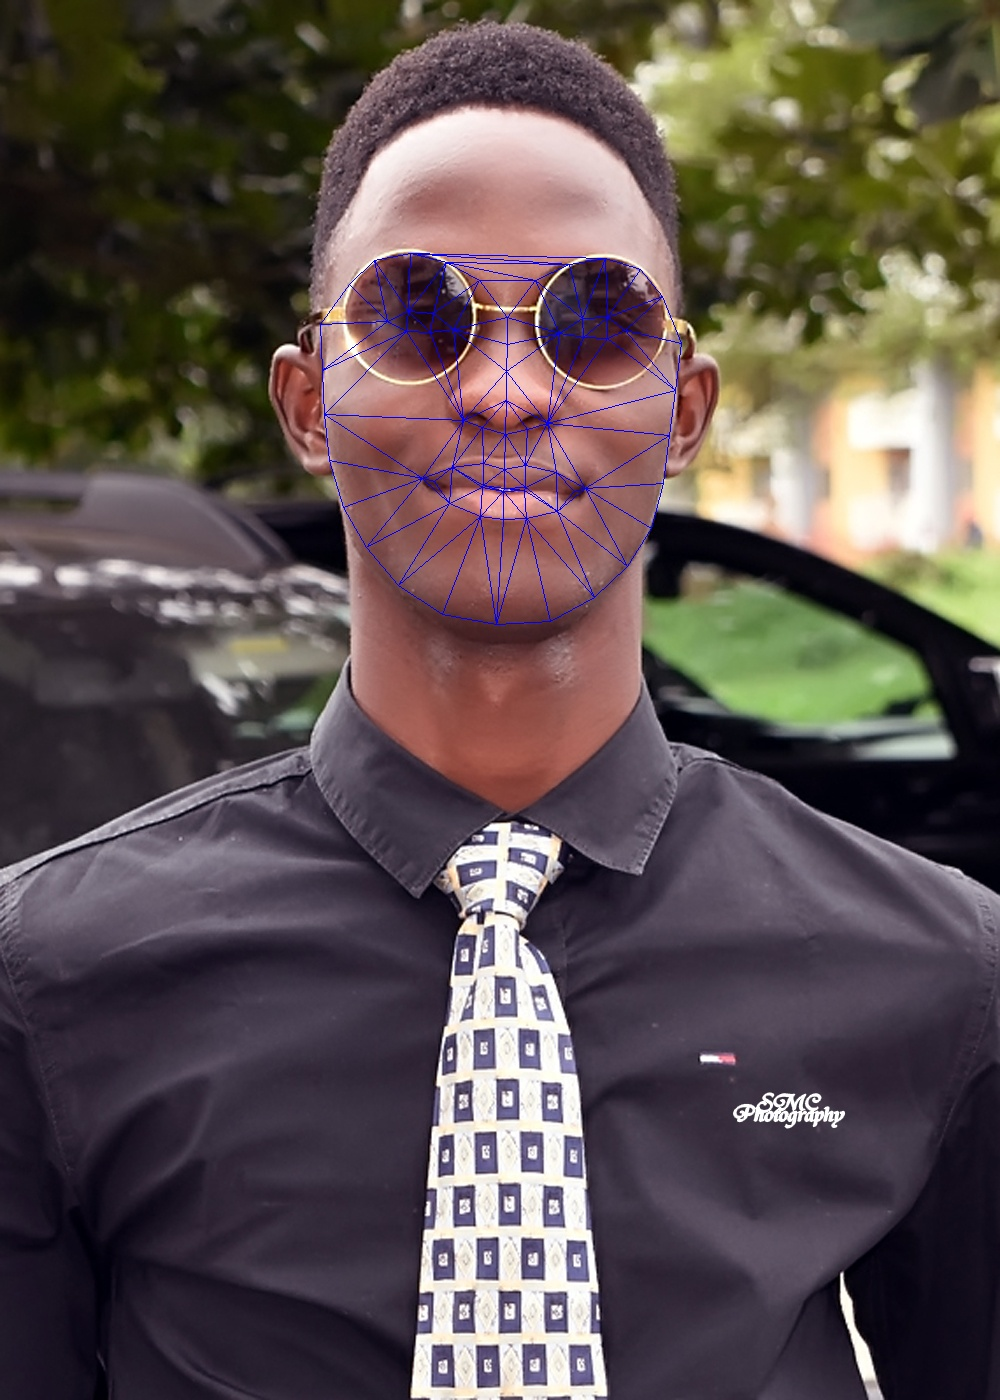
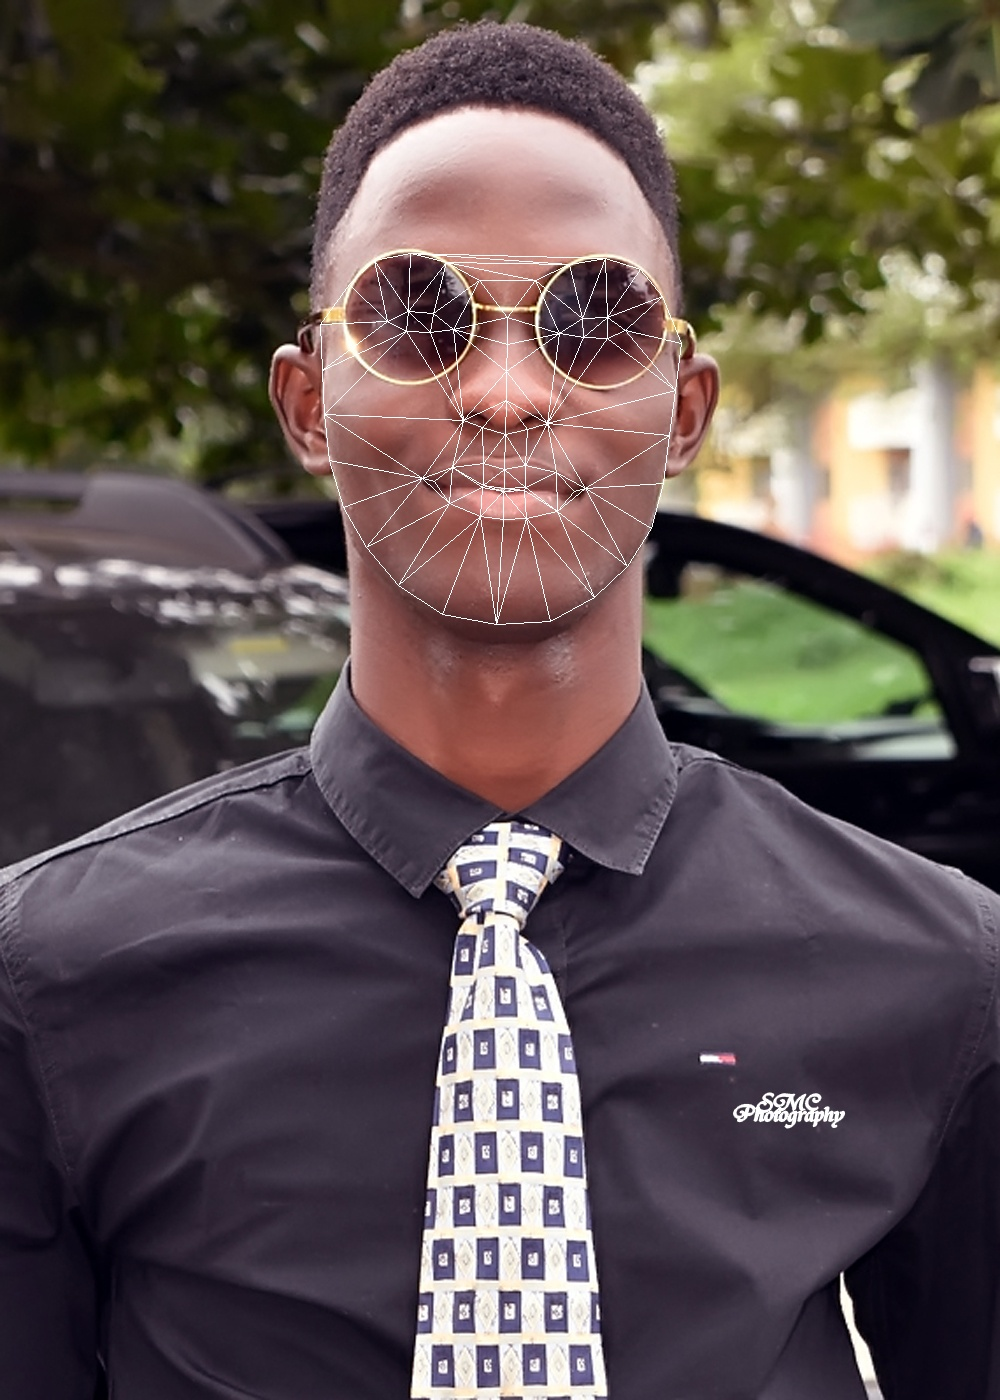
Used Delaunay traingulation

Changed region(s): [[0.31, 0.1536, 0.682, 0.4607]]

diff --git a/custom_face_swap.py b/custom_face_swap.py
@@ -65,7 +65,7 @@ for src_face in src_faces:
                index_point2 = (tri[2], tri[3])
                index_point3 = (tri[4], tri[5])
 
-               line_color = (255, 0, 0)
+               line_color = (255, 255, 255)
                cv2.line(src_img, index_point1, index_point2, line_color, 1)
                cv2.line(src_img, index_point2, index_point3, line_color, 1)
                cv2.line(src_img, index_point3, index_point1 , line_color, 1)
